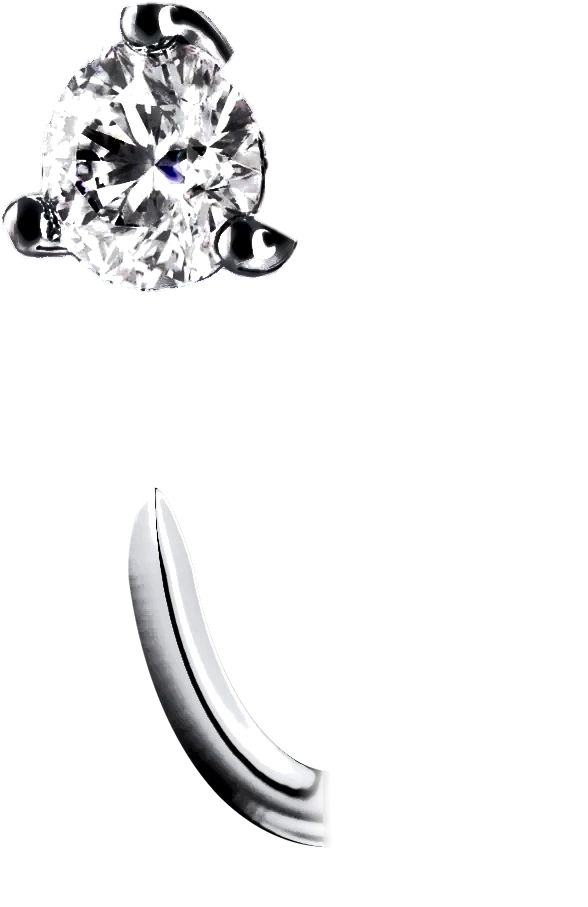
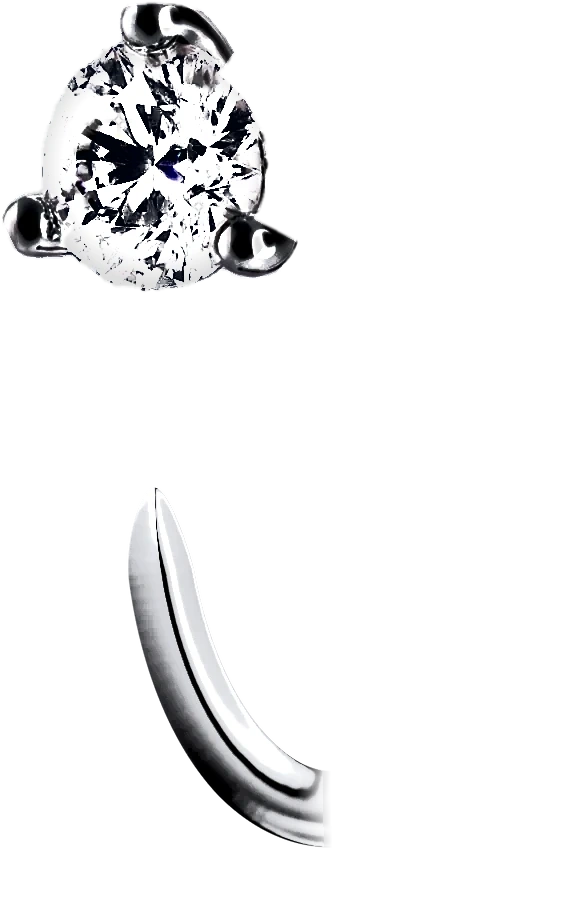
Ear Studio : pierre du Mini Clou Blanc plus vive (contraste, netteté, éclats, halo de lumière)
Claude-Session: https://claude.ai/code/session_017iEkzmfJRg2PVjgvF3esuw

Changed region(s): [[0.0918, 0.0309, 0.4592, 0.3396], [0.4286, 0.247, 0.4592, 0.2778]]

diff --git a/index.html b/index.html
@@ -917,6 +917,8 @@ const HUG={sol:{sp:.43,tx:.386},rond:{sp:.4,tx:.38},trinity:{sp:.4,tx:.49},bague
 function hugK(p){const g=HUG[p.id],j=J[p.id];if(!g||!EM||Math.abs(p.r||0)>25)return 1;const w=wp(j,p.s),hp=w*(j.h/j.w)/ASP,E=edgeAt(p.x+(g.tx-j.ax)*w);if(E==null)return 1;const k=((E-p.y)/hp+j.ay-j.ay)/(.86-j.ay);return k>2.1?1:Math.max(1,Math.min(1.8,k))}
 function hugApply(p,e){const g=HUG[p.id];if(!g)return;const j=J[p.id],k=hugK(p),o=`50% ${j.ay*100}%`,t=k===1?'':`scaleY(${k.toFixed(3)})`;
   if(!e.ft){const t2=document.createElement('img');t2.alt='';t2.draggable=false;t2.style.cssText='position:absolute;left:0;top:0';e.fin.insertBefore(t2,e.sh);e.ft=t2;e.fi.style.clipPath=e.fi.style.webkitClipPath=e.sh.style.clipPath=e.sh.style.webkitClipPath=`inset(0 0 ${(100-g.sp*100).toFixed(1)}% 0)`;t2.style.clipPath=t2.style.webkitClipPath=`inset(${(g.sp*100).toFixed(1)}% 0 0 0)`}
+  /* la pierre : un halo de lumière très fin, comme un vrai brillant */
+  if(p.id==='sol'&&!e.fi.dataset.gl){e.fi.dataset.gl='1';e.fi.style.filter='drop-shadow(0 0 1.1px rgba(255,255,255,.55)) drop-shadow(.5px 1.2px .9px rgba(51,26,10,.42)) drop-shadow(1.2px 2.6px 2.4px rgba(51,26,10,.16))'}
   if(e.ft.dataset.s!==e.fi.dataset.s){e.ft.src=e.fi.dataset.s;e.ft.dataset.s=e.fi.dataset.s}
   e.ft.style.transformOrigin=o;e.ft.style.transform=t;if(e.bi){e.bi.style.transformOrigin=o;e.bi.style.transform=t}}
 function snap(p){const j=J[p.id],s=p.s||1;
